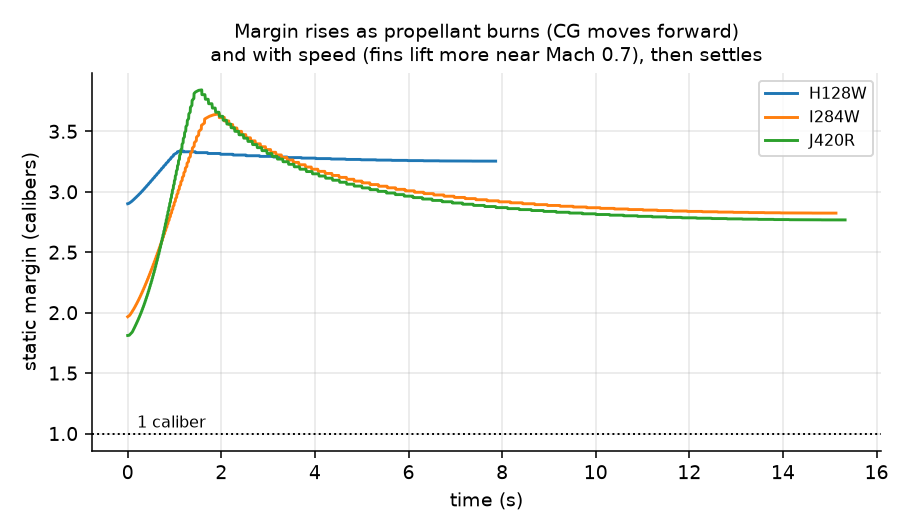
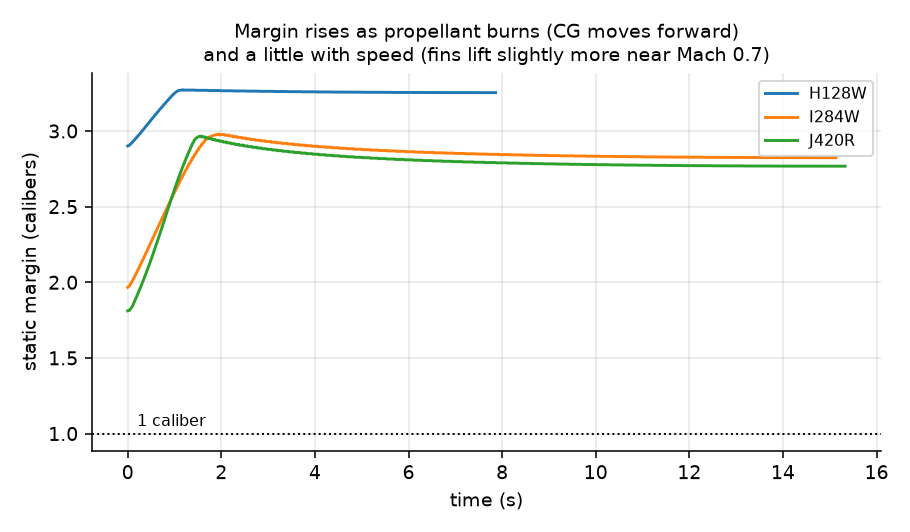
Write up the OpenRocket comparison and the .ork workflow
README: import an .ork directly or as TOML; the comparison against
OpenRocket's own example (dry mass 1.3608 vs 1.3610 kg, CG within 2 mm,
CP within 1 mm up to Mach 0.6); the fin-lift mistake it caught; test count.
DERIVATIONS: Diederich's compressibility form and how the importer computes
masses. All results regenerated with the corrected fin slope (changes are
1-2 m at most).

Closes #2

diff --git a/examples/make_figures.py b/examples/make_figures.py
@@ -163,7 +163,7 @@ def main():
         axm.set_xlabel("time (s)")
         axm.set_ylabel("static margin (calibers)")
         axm.set_title("Margin rises as propellant burns (CG moves forward)\n"
-                      "and with speed (fins lift more near Mach 0.7), then settles", fontsize=10)
+                      "and a little with speed (fins lift slightly more near Mach 0.7)", fontsize=10)
         axm.legend(fontsize=8)
         save(fig2, "stability_margin.png")
 

diff --git a/README.md b/README.md
@@ -24,21 +24,21 @@ The example is a typical 3-inch dual-deploy rocket with a 38 mm motor mount, flo
 
 ![Flight profiles](docs/figures/flight_profiles.png)
 
-The stability margin isn't one number. It climbs while the motor burns, because the propellant mass leaves from the back and the center of gravity moves forward. It also climbs with speed, because the fins make more lift near Mach 0.7. Then it settles once the rocket slows down.
+The stability margin isn't one number. It climbs while the motor burns, because the propellant mass leaves from the back and the center of gravity moves forward. It also rises a little with speed, because the fins make slightly more lift near Mach 0.7, and settles back as the rocket slows down.
 
 <img src="docs/figures/stability_margin.png" width="60%">
 
 ## What it taught me
 
-**Wind matters most right off the rail.** A rocket leaving a 6 ft rail at 16.7 m/s in an 8 m/s wind meets the air at a 20.6° angle of attack, so it turns hard into the wind. On the H128W a longer rail only helps a little: 18.7° from an 8 ft rail, against 23.6° from a 4 ft one. The faster I284W leaves the rail at 25 m/s and only sees 14°. Apogee barely changes (1.5 to 2.5% lower at 8 m/s), but the I284W ends up 104 m upwind of the pad at apogee.
+**Wind matters most right off the rail.** A rocket leaving a 6 ft rail at 16.7 m/s in an 8 m/s wind meets the air at a 20.6° angle of attack, so it turns hard into the wind. On the H128W a longer rail only helps a little: 18.7° from an 8 ft rail, against 23.6° from a 4 ft one. The faster I284W leaves the rail at 25 m/s and only sees 14°. Apogee barely changes (1.5 to 2.5% lower at 8 m/s), but the I284W ends up 103 m upwind of the pad at apogee.
 
 ![Weathercocking](docs/figures/weathercock.png)
 
-**A 2-caliber margin is a small-angle number.** Barrowman's method treats normal force as linear in the angle of attack and leaves out the body tube's own lift, which grows as sin²α. That's fine in steady flight, but not for a rocket leaving a short rail in wind at 14 to 21°. With Galejs' body-lift correction, the I284W's 2.0-caliber margin at liftoff drops to 0.6 at 10° and almost nothing at 20°, and on the J420R it goes slightly negative. The body lift acts ahead of the CG, so the simulator, which includes it, also shows the rocket turning into the wind less than plain Barrowman predicts: 104 m upwind at apogee instead of 142 m.
+**A 2-caliber margin is a small-angle number.** Barrowman's method treats normal force as linear in the angle of attack and leaves out the body tube's own lift, which grows as sin²α. That's fine in steady flight, but not for a rocket leaving a short rail in wind at 14 to 21°. With Galejs' body-lift correction, the I284W's 2.0-caliber margin at liftoff drops to 0.6 at 10° and almost nothing at 20°, and on the J420R it goes slightly negative. The body lift acts ahead of the CG, so the simulator, which includes it, also shows the rocket turning into the wind less than plain Barrowman predicts: 103 m upwind at apogee instead of 142 m.
 
 <img src="docs/figures/margin_vs_aoa.png" width="60%">
 
-**Dual deploy isn't optional on a windy day.** In an 8 m/s wind, opening the main at apogee puts the I284W flight 3.5 km from the pad. Coming down fast under a small drogue and opening the main at 150 m brings that to 820 m.
+**Dual deploy isn't optional on a windy day.** In an 8 m/s wind, opening the main at apogee puts the I284W flight 3.5 km from the pad. Coming down fast under a small drogue and opening the main at 150 m brings that to 825 m.
 
 ![Landing dispersion](docs/figures/landing_dispersion.png)
 
@@ -64,20 +64,34 @@ the uncalibrated error and the fitted drag multiplier. Then predict a second fli
 
 ## How I checked it
 
-There are 20 tests, and each compares against something worked out independently:
+There are 41 tests, and each compares against something worked out independently:
 - standard atmosphere tables
 - the published impulse of each motor
 - the rocket equation, with no gravity or drag
 - exact kinematics for a drag-free vertical flight, and the launch-rail exit speed (to 0.2%)
-- Barrowman's nose and fin results, including the quarter-chord CP of a rectangular fin
+- Barrowman's nose and fin results, including the quarter-chord CP of a rectangular fin, and the CP of every nose shape from its volume
+- the extra speed from pressure thrust at altitude
+- the closed-form opening shock of a filling parachute
 - terminal velocity under the main parachute
+- masses and positions of an OpenRocket design worked out by hand
 - the step size being converged
 
 The one I'm proudest of starts the rocket coasting with a small wobble. It checks that the angle of attack oscillates at the frequency, and decays at the rate, that linearized short-period theory predicts (within 2% and 10%). The derivation is in [DERIVATIONS.md](DERIVATIONS.md).
 
+### Against OpenRocket
+
+OpenRocket saves its simulation results inside each design file, so I imported one of its own bundled examples ("Dual parachute deployment", which ships with OpenRocket and isn't included here) and compared:
+- **Dry mass:** 1.3608 kg against OpenRocket's 1.3610.
+- **Dry CG:** within 2 mm.
+- **CP:** at 1,335 flight points, mine is within 1 mm of OpenRocket's up to Mach 0.6 (0.66 mm RMS overall). OpenRocket stores positions to the millimeter, so that's as close as the data can show. Above Mach 0.6 the two drift apart by up to 5 mm, where both are stretching subsonic theory.
+
+`examples/compare_openrocket.py` runs the same check on any .ork that has saved simulations.
+
+<img src="docs/figures/openrocket_cp.png" width="60%">
+
 ## Using it on your own rocket
 
-1. Describe the rocket in a TOML file. [`rockets/example_3in.toml`](rockets/example_3in.toml) shows every field: nose shape, tube, fins, internal masses, motor.
+1. Describe the rocket in a TOML file. [`rockets/example_3in.toml`](rockets/example_3in.toml) shows every field: nose shape, tube, fins, internal masses, motor. If you already have it in OpenRocket, `rocket.load("my_rocket.ork")` reads the design directly, or `examples/import_ork.py` writes it out as a TOML you can edit. That works for single-stage rockets with one fin set and no diameter changes.
 2. Put the motor's `.eng` file from thrustcurve.org in [`data/motors/`](data/motors/). If you measure the nozzle exit with calipers, add `nozzle_exit_diameter` under `[motor]` to include the extra thrust at altitude.
 3. Fly it:
 
@@ -96,7 +110,7 @@ After a flight, calibrate the drag against the altimeter with `examples/compare_
 
 ```bash
 pip install -e ".[dev]"
-pytest -q                                          # 20 checks, ~6 s
+pytest -q                                          # 41 checks, ~15 s
 python examples/make_figures.py                    # every figure and number above
 python examples/make_figures.py --only weathercock # or just one section
 ```
@@ -105,15 +119,16 @@ python examples/make_figures.py --only weathercock # or just one section
 
 ## Things I got wrong along the way
 
-- **My first Monte Carlo pushed my laptop to 110 °C.** It ran on all ten cores for three and a half minutes. When I profiled it, the drag model was re-integrating the nose cone's surface area about 18,000 times per flight, for a number that never changes. NumPy's general cross product was also slow on 3-element vectors, and the coast phase was using a smaller time step than it needed. Fixing those made each flight 4.3 times faster with the same apogee to the millimetre. That's also why the batch runner has a speed control now.
+- **My first Monte Carlo pushed my laptop to 110 °C.** It ran on all ten cores for three and a half minutes. When I profiled it, the drag model was re-integrating the nose cone's surface area about 18,000 times per flight, for a number that never changes. NumPy's general cross product was also slow on 3-element vectors, and the coast phase was using a smaller time step than it needed. Fixing those made each flight 4.3 times faster with the same apogee to the millimeter. That's also why the batch runner has a speed control now.
 - **I assumed Barrowman's "parabola" was the same shape as OpenRocket's "parabolic series".** It isn't. Barrowman's is $r \propto \sqrt{x}$, with its CP at half the nose length; the parabolic series has its CP at exactly 7/15 of the length, which my code got right while my test expected the wrong number.
 - **The rail-exit speed came out 1% too high,** because I recorded it at the end of the time step instead of interpolating to the exact moment the rocket left the rail.
 - **My first example rocket had a static margin of 3 to 4 calibers.** It was very stable, but it would weathercock a lot. Smaller fins brought it to about 2.
+- **My fins gained too much lift with speed.** I'd divided the whole fin lift slope by the Prandtl-Glauert factor. When I imported one of OpenRocket's own examples and compared against the CP it had saved, mine sat 8 to 13 mm too far aft above Mach 0.3. Diederich's form, which OpenRocket uses, puts the compressibility inside the aspect-ratio term instead, and now the two agree to within a millimeter. The same comparison caught my nose surface integral overcounting by 0.05%.
 - **I originally used the J350W.** Its curve on thrustcurve.org isn't marked public domain, so I switched to the J420R, which is the same case size with a similar impulse.
 
 ## What's next
 
-See the [issues](https://github.com/aneeshkaravadi/hpr-flight-sim/issues): importing OpenRocket `.ork` files directly, transonic drag, roll and fin cant, and real flight comparisons.
+See the [issues](https://github.com/aneeshkaravadi/hpr-flight-sim/issues): transonic drag, roll and fin cant, and real flight comparisons.
 
 ---
 

diff --git a/DERIVATIONS.md b/DERIVATIONS.md
@@ -69,7 +69,11 @@ acting at the centroid of the side-view (planform) area of the nose and body. Th
 
 Checked by: a cone's planform is a triangle, with area $RL$ and centroid at $\tfrac23 L$ (`test_cone_planform_area_and_centroid`). The force and moment the flight code applies match the formula (`test_body_lift_force_and_moment_follow_galejs`).
 
-**Compressibility.** The fin slope is multiplied by $1/\sqrt{1 - M^2}$ (Prandtl–Glauert), capped at $M = 0.8$. That's why the static margin rises near max speed.
+**Compressibility.** Speed enters the fin slope through the effective aspect ratio (Diederich's semi-empirical form, which OpenRocket also uses):
+
+$$C_{N\alpha,f} = \left(1 + \frac{R}{s + R}\right)\frac{4n(s/d)^2}{1 + \sqrt{1 + \left(\beta\dfrac{2L_F}{C_r + C_t}\right)^2}}, \qquad \beta = \sqrt{1 - M^2}$$
+
+This is capped at $M = 0.8$. It grows much less with speed than dividing the whole slope by $\beta$ (Prandtl–Glauert), which is what I did at first. That overstated the fins' lift above Mach 0.3, and the OpenRocket comparison in section 10 is what showed it (`test_fin_slope_compressibility_acts_through_the_aspect_ratio`).
 
 **Total CP and static margin:**
 
@@ -163,6 +167,22 @@ $n$ depends on the canopy type. It is an assumption here (8 by default), which i
 2. Fit a linear regression.
 3. Each coefficient squared is roughly that input's share of the apogee variance.
 
+## 10. Importing OpenRocket designs (`ork.py`)
+
+An .ork file is XML (zipped by newer OpenRocket versions, gzipped by older ones). Each part's position is given relative to its parent: from the parent's top, its bottom, its middle, right after the previous part, or absolute. Masses are computed the way OpenRocket does:
+
+| Part | Mass |
+|---|---|
+| nose cone | shell area × wall thickness × density |
+| tubes, couplers, inner tubes | annulus area × length × density |
+| bulkheads, centering rings | disc or ring area × length × density |
+| fins | (planform + tab area) × thickness × density × count |
+| parachutes | cloth area × surface density, plus the shroud lines |
+
+Mass overrides in the file are then applied. An override that covers subcomponents scales the whole subtree, which keeps its CG. Each internal part becomes a point mass at its own CG, carrying its own inertia.
+
+Checked against a design whose masses and positions are worked out by hand (`tests/test_ork.py`). On one of OpenRocket's own example rockets, the result agrees with the dry mass, CG and CP that OpenRocket saved (README, "Against OpenRocket").
+
 ## Limitations
 
 - Subsonic only. There is no transonic drag rise.
@@ -171,3 +191,4 @@ $n$ depends on the canopy type. It is an assumption here (8 by default), which i
 - Parachute filling is a simple model: drag area grows with distance squared, and the fill constant is an assumption.
 - Wind is a steady power-law profile with no gusts.
 - The example rocket's dimensions are representative of 3-inch kits. They aren't a specific kit.
+- The .ork import handles single-stage rockets with one fin set and no transitions.
